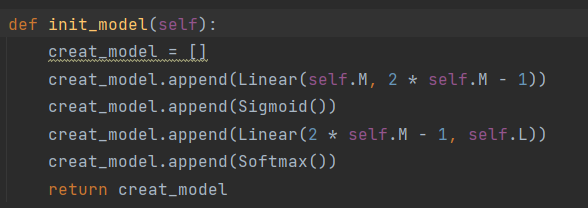
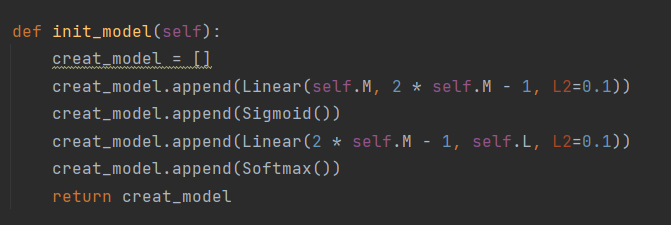
update

diff --git a/5.FNN(hw3)/Fnn_myself.py b/5.FNN(hw3)/Fnn_myself.py
@@ -16,6 +16,12 @@ def load_data(path):
 
 
 def cross_entropy(y_hat, t, c):
+    '''
+    :param y_hat: 预测分布
+    :param t: 真实标签 为一个标量
+    :param c: 类别数目
+    :return: 交叉熵
+    '''
     _y = np.zeros((y_hat.shape[0], c))
     for i in range(y_hat.shape[0]):
         _ = int(t[i][0])
@@ -27,21 +33,29 @@ def cross_entropy(y_hat, t, c):
 
 
 class Linear:
-    def __init__(self, input_dim, output_dim, lr=0.01):
+    def __init__(self, input_dim, output_dim, L2=0., lr=0.01):
+        '''
+        :param L2:L2正则化系数
+        '''
         self.x = None
         self.theta = np.zeros((input_dim, output_dim))
         self.bias = np.ones((1, output_dim))
+        self.n = (input_dim + 1) * output_dim
         self.lr = lr
+        self.L2 = L2
 
     def forward(self, x):
         # param x: [B,input_dim]
         self.x = x
         return x @ self.theta + self.bias
 
+    def weights(self):
+        return self.L2 / 2 * (np.sum(self.theta ** 2) + np.sum(self.theta ** 2)) / self.n
+
     def bp(self, gradient):
         # param loss:[B,output_dim]
-        self.theta -= self.lr * (self.x.T @ gradient)
-        self.bias -= self.lr * np.ones((1, gradient.shape[0])) @ gradient
+        self.theta = self.theta * (1 - self.lr * self.L2 / self.n) - self.lr * (self.x.T @ gradient)
+        self.bias = self.bias * (1 - self.lr * self.L2 / self.n) - self.lr * np.ones((1, gradient.shape[0])) @ gradient
         return gradient @ self.theta.T
 
 
@@ -74,6 +88,37 @@ class Sigmoid:
         return gradient * _
 
 
+class Tanh:
+    def __init__(self):
+        self.z = None
+        self.net = Sigmoid()
+
+    def forward(self, x):
+        self.z = 2 * self.net.forward(2 * x) - 1
+        return 2 * self.net.forward(2 * x) - 1
+
+    def bp(self, gradient):
+        return gradient * (1 - self.z ** 2)
+
+
+class LeakyRelu:
+    def __init__(self, a=0.1):
+        # a=0时为Relu
+        self.m = None
+        self.a = a
+        pass
+
+    def forward(self, x):
+        self.m = (x <= 0)
+        out = x.copy()
+        out[self.m] = self.a * out[self.m]
+        return out
+
+    def bp(self, gradient):
+        gradient[self.m] = 0
+        return gradient
+
+
 class FNN:
     def __init__(self, opt, X_train, Y_train, X_test, Y_test, epoch, lr, is_decay, lr_decay, batch_size):
         self.loss = None
@@ -95,9 +140,9 @@ class FNN:
 
     def init_model(self):
         creat_model = []
-        creat_model.append(Linear(self.M, 2 * self.M - 1))
+        creat_model.append(Linear(self.M, 2 * self.M - 1, L2=0.1))
         creat_model.append(Sigmoid())
-        creat_model.append(Linear(2 * self.M - 1, self.L))
+        creat_model.append(Linear(2 * self.M - 1, self.L, L2=0.1))
         creat_model.append(Softmax())
         return creat_model
 
@@ -163,7 +208,10 @@ class FNN:
     def train(self):
         x, y = self.shuffle()
         _ = self.forward(x)
-        loss = cross_entropy(_, y,self.L)
+        loss = cross_entropy(_, y, self.L)
+        for i in range(len(self.model)):
+            if isinstance(self.model[i], Linear):
+                loss += self.model[i].weights()
         self.bp(_, y)
         return loss
 
@@ -201,7 +249,7 @@ class FNN:
 
             plt.subplot(1, 3, 3)
             X = self.X_train
-            plot_step = 0.05
+            plot_step = 0.10
             x_min, x_max = X[:, 0].min() - 1, X[:, 0].max() + 1
             y_min, y_max = X[:, 1].min() - 1, X[:, 1].max() + 1
             xx, yy = np.meshgrid(np.arange(x_min, x_max, plot_step),
@@ -228,7 +276,7 @@ class FNN:
 if __name__ == "__main__":
     parser = argparse.ArgumentParser(
         description=__doc__)
-    parser.add_argument('--data_path', default='./data/Exam', help='data path')
+    parser.add_argument('--data_path', default='./data/Iris', help='data path')
     parser.add_argument('--lr', default=0.05, type=float, help='learning rate')
     parser.add_argument('--epoch', default=1000, type=int, help='epoch')
     parser.add_argument('--batch_size', default=32, type=int, help='batch_size')

diff --git a/5.FNN(hw3)/README.md b/5.FNN(hw3)/README.md
@@ -2,15 +2,29 @@
 
 ## 1 Intro
 
-实现的层数有linear层，sigmoid层，softmax层
+#### 实现内容
+##### 层
+
+* Linear层
+
+* Sigmoid层
+
+* Softmax层
+
+* Tanh层
+
+* LeakyRelu层
+
+  后四种只作为激活函数使用，不能改变输出的维度，若需改变则在其前加一个线性层.
+
+##### 正则化项
+
+* L2正则化
+#### 简介
 
 每一层都有前向传播和反向传播方法。
 
-整个模型的前向传播过程就是依次执行forward函数，将上一层的输出作为下一层的输入，直到最后。
-
-模型的反向传播过程则是依次执行bp函数，把后一层的梯度作为输入求该层的梯度。
-
-因为作用的是分类任务，所以损失函数是交叉熵损失函数.
+整个模型的前向传播过程就是依次执行forward函数，将上一层的输出作为下一层的输入，直到最后。模型的反向传播过程则是依次(由后先前)执行bp函数，把后一层的梯度作为输入求该层的梯度。因为作用的是分类任务，所以损失函数是交叉熵损失函数.
 
 默认的模型结构是
 
@@ -20,13 +34,14 @@
 
 <img src='init_model.png' style="zoom: 80%;" >
 
-模型构成的层，层的类型，与层的参数都可以通过更改该函数修改.
+在遵循下列条件的情况下，您可以任意更改模型构成的层，层的类型，与层的参数来构造所需求的模型
 
 注意
 
 * 模型的输入一个与数据的特征数(*self.M*)相同
 * 模型的输出与数据集的类别数(*self.L*)相同
 * 隐藏层的输入大小应该与上一层的输出大小相同
+* 由于是分类任务，为了搭配交叉熵损失函数，所以实现的代码softmax必须为最后一层
 ## 2. Requriments
 
 * python 3.7
@@ -67,3 +82,7 @@ python Fnn_myself.py --data_path ./data/Iris --batch_size 32 --epoch 1000
 在Iris上的结果
 
 <img src='Figure_1.png'>
+
+添加正则化之后的结果
+
+<img src='Figure_3(l2).png'>
